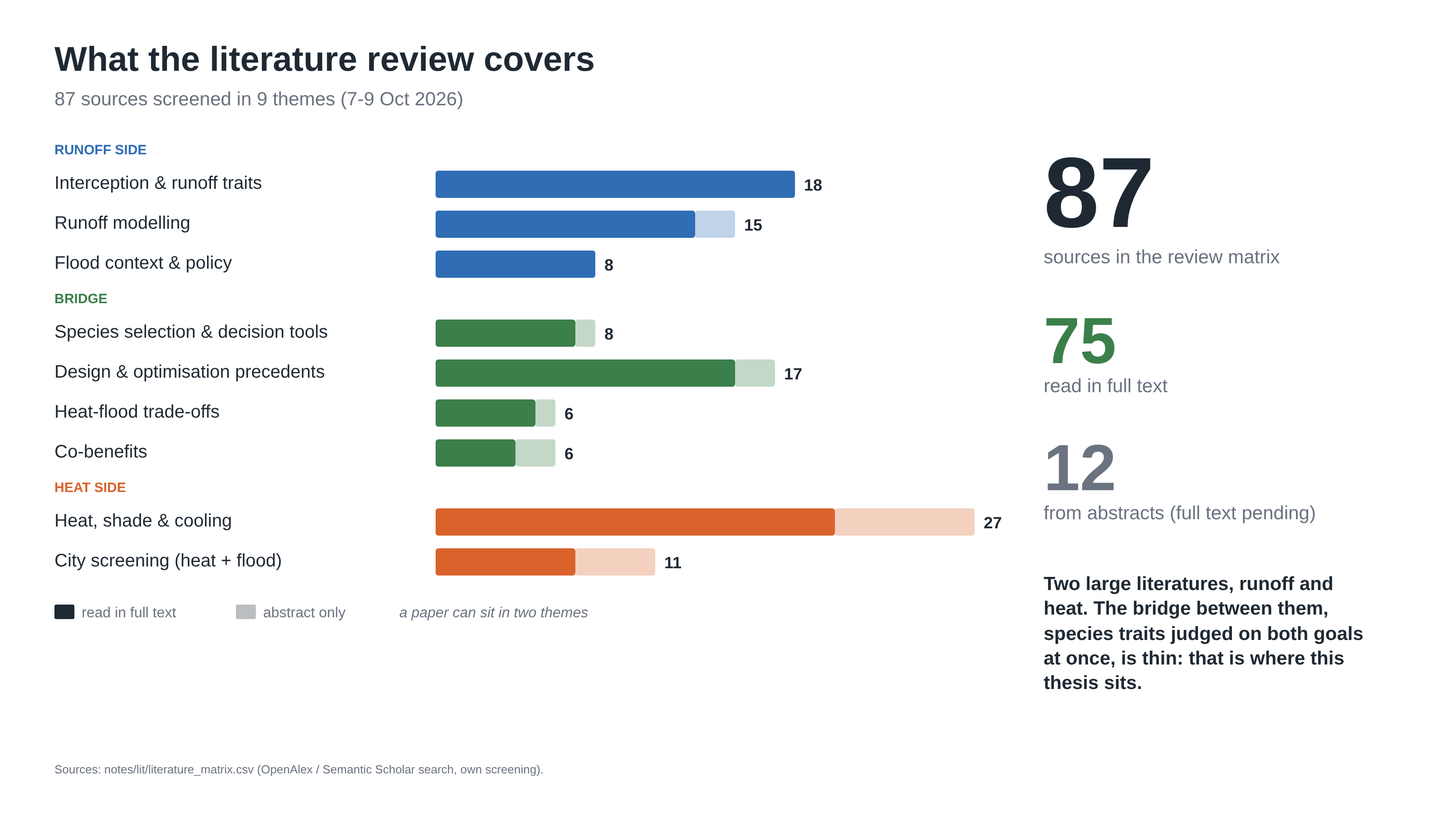
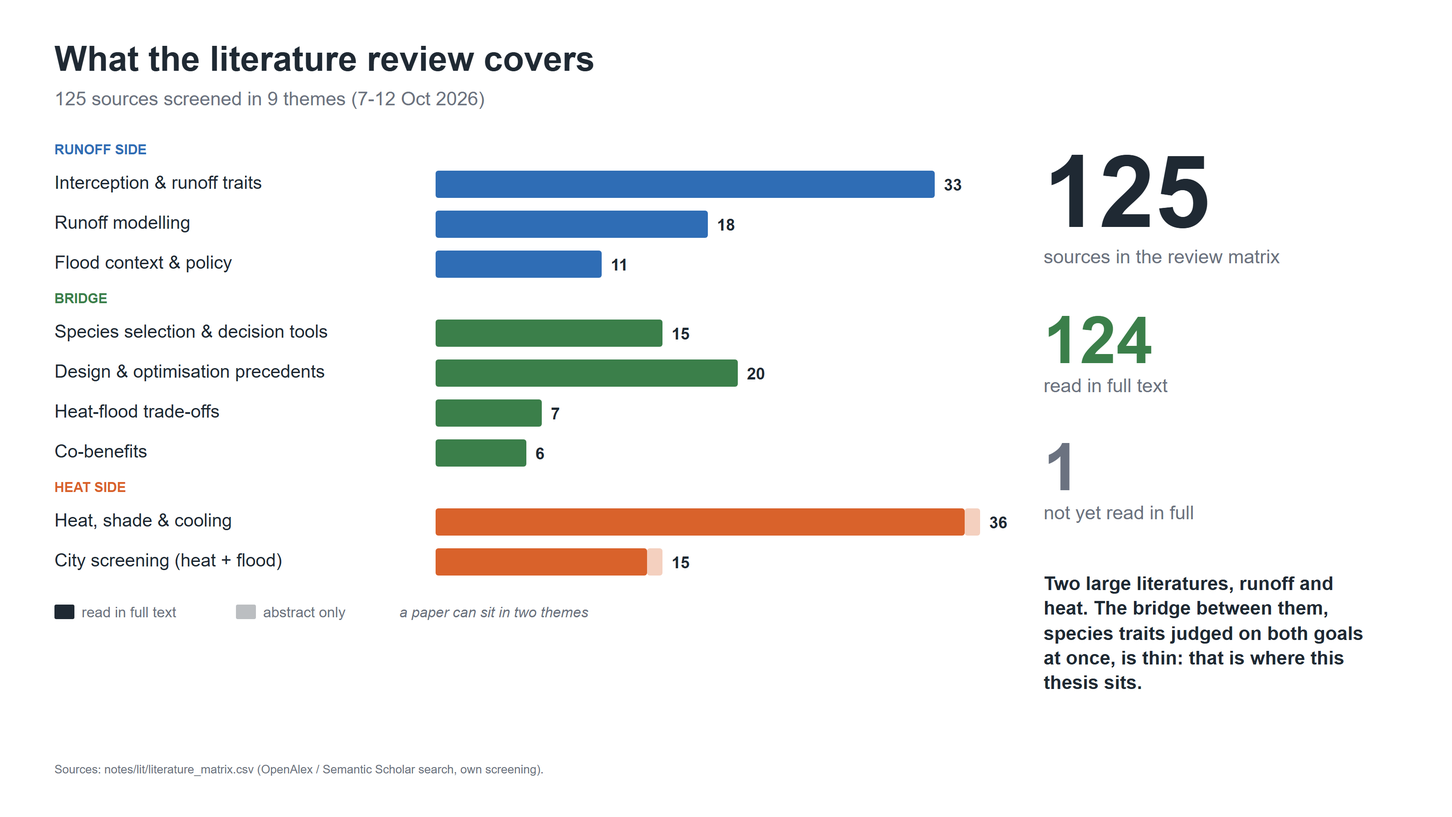
Read 30 papers in full: matrix rows 104-128 added, 82-84 and 86-87 rewritten; figure 01 skips off-topic rows (fact-checked)

diff --git a/scripts/make_infographics.py b/scripts/make_infographics.py
@@ -90,7 +90,8 @@ def to_png(svg):
 
 # ---- 1. What the review covers
 def fig_lit_map():
-    rows = list(csv.DictReader(open(ROOT / "notes/lit/literature_matrix.csv", encoding="utf-8")))
+    rows = [r for r in csv.DictReader(open(ROOT / "notes/lit/literature_matrix.csv", encoding="utf-8"))
+            if not r["relevance_to_topic"].startswith("Not used")]   # screened out as off-topic
     c = {}
     for r in rows:
         for b in r["bucket"].split("/"):
@@ -101,7 +102,8 @@ def fig_lit_map():
               ("Bridge", TREE, [("B3", "Species selection & decision tools"), ("B5", "Design & optimisation precedents"),
                                 ("B8", "Heat-flood trade-offs"), ("B6", "Co-benefits")]),
               ("Heat side", HEAT, [("B7", "Heat, shade & cooling"), ("B9", "City screening (heat + flood)")])]
-    b, y, x0, k = "", 170, 480, 22
+    b, y, x0 = "", 170, 480
+    k = min(22, 600 / max(sum(v) for v in c.values()))   # longest bar + label must stay left of the stats column (x=1150)
     for g, col, items in groups:
         b += t(60, y, g.upper(), 15, col, "bold")
         y += 12
@@ -118,10 +120,10 @@ def fig_lit_map():
     x = 1150
     b += t(x, 250, str(len(rows)), 110, INK, "bold") + t(x, 290, "sources in the review matrix", 21, MUTED)
     b += t(x, 400, str(n_full), 72, TREE, "bold") + t(x, 432, "read in full text", 21, MUTED)
-    b += t(x, 540, str(len(rows) - n_full), 72, MUTED, "bold") + t(x, 572, "from abstracts (full text pending)", 21, MUTED)
+    b += t(x, 540, str(len(rows) - n_full), 72, MUTED, "bold") + t(x, 572, "not yet read in full", 21, MUTED)
     tk, _ = para(1150, 650, "Two large literatures, runoff and heat. The bridge between them, species traits judged on "
                             "both goals at once, is thin: that is where this thesis sits.", 390, 21, weight="bold")
-    save("01_lit_map", "What the literature review covers", f"{len(rows)} sources screened in 9 themes (7-9 Oct 2026)",
+    save("01_lit_map", "What the literature review covers", f"{len(rows)} sources screened in 9 themes (7-12 Oct 2026)",
          b + tk, "notes/lit/literature_matrix.csv (OpenAlex / Semantic Scholar search, own screening).")
 
 

diff --git a/notes/lit/to_get_manually.md b/notes/lit/to_get_manually.md
@@ -2,7 +2,7 @@
 
 Paywalled, or no open-access PDF found by the search. Get them through Zotero / IAAC access, save them in `papers/`, then tell Claude, which reads them and updates `literature_matrix.csv`. T1 = screened as most relevant, T2 = second tier.
 
-**Status 9 Oct 2026:** 45 of 96 obtained and read in full, plus Santos Nouri 2018 (added by hand); 51 of the list still to get. **12 Oct:** 28 more are in `papers/` but not yet read (section 3); none left to get (Zaman dropped, section 2). Years in the entries are the search's (often online) years; the matrix uses the issue year (e.g. Zölch 2019, Cortinovis 2022, Marrazzo 2025).
+**Status 9 Oct 2026:** 45 of 96 obtained and read in full, plus Santos Nouri 2018 (added by hand); 51 of the list still to get. **12 Oct:** 28 more were obtained and read in full the same day (now in section 3, matrix rows 82-84 and 104-128); Langenheim #86 and Schrodi #87 were also read in full; none left to get (Zaman dropped, section 2). Years in the entries are the search's (often online) years; the matrix uses the issue year (e.g. Zölch 2019, Cortinovis 2022, Marrazzo 2025).
 
 ## 1. Get these first (6)
 Dowtin, Hassan, de Mello, Rahman 2019, Speak and Kaluarachchi carry claims that the slides, figures or notes took from abstracts only. **12 Oct: all read in full (Speak added and read the same day).**
@@ -18,40 +18,36 @@ Dowtin, Hassan, de Mello, Rahman 2019, Speak and Kaluarachchi carry claims that 
 
 - [-] [T1] Zaman Sumaiya (2026). The Urban Heat Island: Increasing Temperature Trends in Central European Cities (Vienna, Rome & Zagreb). **Not a paper, not obtainable (12 Oct):** the only record (University of Debrecen repository, https://hdl.handle.net/2437/408980, collection TALENTUD FOS, June 2026) holds a slide deck (`ppt-on-uhi_0.pdf`) and a participation certificate, both login-only (HTTP 401). The `urban_heat_island_central_europe.pdf` placed in `papers/` was a generated "summary report" (ReportLab, 1 page), not the source, and was moved to `papers/_to_delete/`. **Dropped by the user (12 Oct).**
 
-## 3. In `papers/`, not yet read (28, added 12 Oct)
+## 3. Obtained and read in full (90 from the list, plus 3 entries added on 11 Oct at the end)
 
-Sciuto 2024 also has an extended abstract: `Sciuto 2024 - SuDS retrofitting for hydraulic risk mitigation in Catania (ICUD extended abstract).pdf`. Eslami's file is an image-only browser print (no text layer) of the complete 3-page UDM 2025 extended abstract.
-
-- [ ] [T1] Mahmuda Sharmin (2023). Tree crown traits and planting context contribute to reducing urban heat. https://doi.org/10.1016/j.ufug.2023.127913 → `Sharmin 2023 - Tree crown traits and planting context contribute to reducing urban heat.pdf`
-- [ ] [T2] Patrícia Layne Alves (2018). Rainfall interception capacity of tree species used in urban afforestation. https://doi.org/10.1007/s11252-018-0753-y → `Alves 2018 - Rainfall interception capacity of tree species used in urban afforestation.pdf`
-- [ ] [T2] Sybil G. Gotsch (2017). Evaluating the effectiveness of urban trees to mitigate storm water runoff via transpiration and stemflow. https://doi.org/10.1007/s11252-017-0693-y → `Gotsch 2018 - Effectiveness of urban trees to mitigate storm water runoff via transpiration and stemflow.pdf`
-- [ ] [T2] Claire Farrell (2022). Can we integrate ecological approaches to improve plant selection for green infrastructure?. https://doi.org/10.1016/j.ufug.2022.127732 → `Farrell 2022 - Can we integrate ecological approaches to improve plant selection for green infrastructure.pdf`
-- [ ] [T2] Claire Farrell (2013). High water users can be drought tolerant: using physiological traits for green roof plant selection. https://doi.org/10.1007/s11104-013-1725-x → `Farrell 2013 - High water users can be drought tolerant.pdf`
-- [ ] [T2] Yan Ting (2020). Effects of the morphological characteristics of plants on rainfall interception and kinetic energy. https://doi.org/10.1016/j.jhydrol.2020.125807 → `Yan 2021 - Effects of the morphological characteristics of plants on rainfall interception.pdf`
-- [ ] [T2] Christopher J. Nytch (2018). Rainfall interception by six urban trees in San Juan, Puerto Rico. https://doi.org/10.1007/s11252-018-0768-4 → `Nytch 2019 - Rainfall interception by six urban trees in San Juan, Puerto Rico.pdf`
-- [ ] [T2] Katarina Zabret (2019). Evaluating the Influence of Rain Event Characteristics on Rainfall Interception by Urban Trees Using Multiple Correspondence Analysis. https://doi.org/10.3390/w11122659 → `Zabret 2019 - Influence of rain event characteristics on rainfall interception by urban trees.pdf`
-- [ ] [T2] Chaonan Xu (2025). Urban-Scale Quantification of Rainfall Interception Drivers in Tree Communities: Implications for Sponge City Planning. https://doi.org/10.3390/su17177793 → `Xu 2025 - Urban-scale quantification of rainfall interception drivers in tree communities.pdf`
-- [ ] [T2] Didier Técher (2023). Supporting evidences for vegetation-enhanced stormwater infiltration in bioretention systems: a comprehensive review. https://doi.org/10.1007/s11356-023-25333-w → `Techer 2023 - Vegetation-enhanced stormwater infiltration in bioretention systems.pdf`
-- [ ] [T2] Xuexiu Zhao (2026). Benefits of an urban isolated tree combined with ground covers for stormwater management through interception–infiltration–runoff processes. https://doi.org/10.1016/j.ufug.2026.129366 → `Zhao 2026 - Urban isolated tree combined with ground covers for stormwater management.pdf`
-- [ ] [T2] Stephen J. Livesley (2013). Rainfall interception and stem flow by eucalypt street trees – The impacts of canopy density and bark type. https://doi.org/10.1016/j.ufug.2013.09.001 → `Livesley 2014 - Rainfall interception and stem flow by eucalypt street trees.pdf`
-- [ ] [T2] Katarina Zabret (2018). Influence of meteorological variables on rainfall partitioning for deciduous and coniferous tree species in urban area. https://doi.org/10.1016/j.jhydrol.2018.01.025 → `Zabret 2018 - Influence of meteorological variables on rainfall partitioning in urban area.pdf`
-- [ ] [T2] Mark Bryan Alivio (2025). An evaluation of the stormwater runoff reduction of two distinct tree species to support urban greening as nature-based solutions. https://doi.org/10.1016/j.ufug.2025.128792 → `Alivio 2025 - Stormwater runoff reduction of two distinct tree species.pdf`
-- [ ] [T2] Eslami, Ali (2026). Looking under the canopy: Modelling how single trees contribute to runoff reduction in cities. https://doi.org/10.71573/zhbx9v70 (matrix #83, abstract only; runoff side, species-specific interception is its own future work) → `Eslami 2025 - Looking under the canopy.pdf`
-- [ ] [T2] Raghad A. Awad (2026). Machine Learning Surrogate Modeling in R for Rapid Screening of Green Infrastructure Hydrological Performance in Urban Stormwater Management: A Proof-of-Concept Study Using Synthetic Data. https://doi.org/10.3390/w18192413 → `Awad 2026 - Machine learning surrogate modeling in R for green infrastructure screening.pdf`
-- [ ] [T2] Fatemeh Rezaei Aderyani (2025). A surrogate machine learning modeling approach for enhancing the efficiency of urban flood modeling at metropolitan scales. https://doi.org/10.1016/j.scs.2025.106277 → `Rezaei Aderyani 2025 - Surrogate machine learning for urban flood modeling at metropolitan scales.pdf`
-- [ ] [T2] Moreen Willaredt (2026). The effects of extreme climatic events on urban trees in Mediterranean regions: A review. https://doi.org/10.1016/j.cpb.2026.100605 → `Willaredt 2026 - Effects of extreme climatic events on urban trees in Mediterranean regions.pdf`
-- [ ] [T2] Liviana Sciuto (2026). Retrofitting interventions with Sustainable urban Drainage Solutions for the hydraulic risk mitigation: the case study of Catania (Sicily, Italy). https://doi.org/10.5281/zenodo.22913242 → `Sciuto 2024 - SuDS retrofitting for hydraulic risk mitigation in Catania (ICUD poster).pdf`
-- [ ] [T2] Francesco Di Paola (2026). The May 2023 flood in Emilia-Romagna and 50-year trends in extreme precipitation based on ERA5-Land. https://doi.org/10.1016/j.ejrh.2025.103070 → `Di Paola 2026 - The May 2023 flood in Emilia-Romagna and 50-year trends in extreme precipitation.pdf`
-- [ ] [T2] Yifei Zhu (2023). Spatial layout optimization of green infrastructure based on life-cycle multi-objective optimization algorithm and SWMM model. https://doi.org/10.1016/j.resconrec.2023.106906 → `Zhu 2023 - Spatial layout optimization of green infrastructure with life-cycle MOO and SWMM.pdf`
-- [ ] [T2] Chen Liang (2021). A land-use decision approach integrating thermal regulation, stormwater management, and economic benefits based on urbanization stage identification. https://doi.org/10.1016/j.scitotenv.2021.146415 (matrix #84, title only, no abstract found; could be heat + runoff prior art, **carries the novelty claim** until read) → `Liang 2021 - Land-use decision approach integrating thermal regulation and stormwater management.pdf`
-- [ ] [T2] Yue Xing (2026). A Framework for Designing Green Infrastructure to Maximize Co-Benefits in High-Density Industrial Districts. https://doi.org/10.3390/su18042142 (matrix #82, abstract only; heat + runoff by GI scenarios; open MDPI PDF, blocked in cloud) → `Xing 2026 - Framework for designing green infrastructure to maximize co-benefits.pdf`
-- [ ] [T2] Virginia R. Stovin (2008). STREET TREES AND STORMWATER MANAGEMENT. https://doi.org/10.1080/03071375.2008.9747509 → `Stovin 2008 - Street trees and stormwater management.pdf`
-- [ ] [T2] Julie Schooling (2015). The influence of rainfall depth class and deciduous tree traits on stemflow production in an urban park. https://doi.org/10.1007/s11252-015-0441-0 → `Schooling 2015 - Rainfall depth class and deciduous tree traits on stemflow production.pdf`
-- [ ] [T2] Alireza Nooraei Beidokhti (2021). The effects of precipitation, tree phenology, leaf area index, and bark characteristics on throughfall rates by urban trees: A meta-data analysis. https://doi.org/10.1016/j.ufug.2021.127052 → `Nooraei Beidokhti 2021 - Precipitation, phenology, LAI and bark effects on throughfall by urban trees.pdf`
-- [ ] [T2] Yeganeh Asadian (2009). A New Approach in Measuring Rainfall Interception by Urban Trees in Coastal British Columbia. https://doi.org/10.2166/wqrj.2009.003 → `Asadian 2009 - A new approach in measuring rainfall interception by urban trees in coastal British Columbia.pdf`
-- [ ] [T2] Janez Kermavnar (2017). Canopy precipitation interception in urban forests in relation to stand structure. https://doi.org/10.1007/s11252-017-0689-7 → `Kermavnar 2017 - Canopy precipitation interception in urban forests in relation to stand structure.pdf`
-
-## 4. Obtained and read in full (62)
+- [x] [T1] Mahmuda Sharmin (2023). Tree crown traits and planting context contribute to reducing urban heat. https://doi.org/10.1016/j.ufug.2023.127913 (matrix #104, full text (12 Oct))
+- [x] [T2] Patrícia Layne Alves (2018). Rainfall interception capacity of tree species used in urban afforestation. https://doi.org/10.1007/s11252-018-0753-y (matrix #105, full text (12 Oct))
+- [x] [T2] Sybil G. Gotsch (2017). Evaluating the effectiveness of urban trees to mitigate storm water runoff via transpiration and stemflow. https://doi.org/10.1007/s11252-017-0693-y (matrix #106, full text (12 Oct))
+- [x] [T2] Claire Farrell (2022). Can we integrate ecological approaches to improve plant selection for green infrastructure?. https://doi.org/10.1016/j.ufug.2022.127732 (matrix #107, full text (12 Oct))
+- [x] [T2] Claire Farrell (2013). High water users can be drought tolerant: using physiological traits for green roof plant selection. https://doi.org/10.1007/s11104-013-1725-x (matrix #108, full text (12 Oct))
+- [x] [T2] Yan Ting (2020). Effects of the morphological characteristics of plants on rainfall interception and kinetic energy. https://doi.org/10.1016/j.jhydrol.2020.125807 (matrix #109, full text (12 Oct))
+- [x] [T2] Christopher J. Nytch (2018). Rainfall interception by six urban trees in San Juan, Puerto Rico. https://doi.org/10.1007/s11252-018-0768-4 (matrix #110, full text (12 Oct))
+- [x] [T2] Katarina Zabret (2019). Evaluating the Influence of Rain Event Characteristics on Rainfall Interception by Urban Trees Using Multiple Correspondence Analysis. https://doi.org/10.3390/w11122659 (matrix #111, full text (12 Oct))
+- [x] [T2] Chaonan Xu (2025). Urban-Scale Quantification of Rainfall Interception Drivers in Tree Communities: Implications for Sponge City Planning. https://doi.org/10.3390/su17177793 (matrix #112, full text (12 Oct))
+- [x] [T2] Didier Técher (2023). Supporting evidences for vegetation-enhanced stormwater infiltration in bioretention systems: a comprehensive review. https://doi.org/10.1007/s11356-023-25333-w (matrix #113, full text (12 Oct))
+- [x] [T2] Xuexiu Zhao (2026). Benefits of an urban isolated tree combined with ground covers for stormwater management through interception–infiltration–runoff processes. https://doi.org/10.1016/j.ufug.2026.129366 (matrix #114, full text (12 Oct))
+- [x] [T2] Stephen J. Livesley (2013). Rainfall interception and stem flow by eucalypt street trees – The impacts of canopy density and bark type. https://doi.org/10.1016/j.ufug.2013.09.001 (matrix #115, full text (12 Oct))
+- [x] [T2] Katarina Zabret (2018). Influence of meteorological variables on rainfall partitioning for deciduous and coniferous tree species in urban area. https://doi.org/10.1016/j.jhydrol.2018.01.025 (matrix #116, full text (12 Oct))
+- [x] [T2] Mark Bryan Alivio (2025). An evaluation of the stormwater runoff reduction of two distinct tree species to support urban greening as nature-based solutions. https://doi.org/10.1016/j.ufug.2025.128792 (matrix #117, full text (12 Oct))
+- [x] [T2] Eslami, Ali (2026). Looking under the canopy: Modelling how single trees contribute to runoff reduction in cities. https://doi.org/10.71573/zhbx9v70 (matrix #83, full text (12 Oct))
+- [x] [T2] Raghad A. Awad (2026). Machine Learning Surrogate Modeling in R for Rapid Screening of Green Infrastructure Hydrological Performance in Urban Stormwater Management: A Proof-of-Concept Study Using Synthetic Data. https://doi.org/10.3390/w18192413 (matrix #118, full text (12 Oct))
+- [x] [T2] Fatemeh Rezaei Aderyani (2025). A surrogate machine learning modeling approach for enhancing the efficiency of urban flood modeling at metropolitan scales. https://doi.org/10.1016/j.scs.2025.106277 (matrix #119, full text (12 Oct))
+- [x] [T2] Moreen Willaredt (2026). The effects of extreme climatic events on urban trees in Mediterranean regions: A review. https://doi.org/10.1016/j.cpb.2026.100605 (matrix #120, full text (12 Oct))
+- [x] [T2] Liviana Sciuto (2026). Retrofitting interventions with Sustainable urban Drainage Solutions for the hydraulic risk mitigation: the case study of Catania (Sicily, Italy). https://doi.org/10.5281/zenodo.22913242 (matrix #121, full text (12 Oct))
+- [x] [T2] Francesco Di Paola (2026). The May 2023 flood in Emilia-Romagna and 50-year trends in extreme precipitation based on ERA5-Land. https://doi.org/10.1016/j.ejrh.2025.103070 (matrix #122, full text (12 Oct))
+- [x] [T2] Yifei Zhu (2023). Spatial layout optimization of green infrastructure based on life-cycle multi-objective optimization algorithm and SWMM model. https://doi.org/10.1016/j.resconrec.2023.106906 (matrix #123, full text (12 Oct))
+- [x] [T2] Chen Liang (2021). A land-use decision approach integrating thermal regulation, stormwater management, and economic benefits based on urbanization stage identification. https://doi.org/10.1016/j.scitotenv.2021.146415 (matrix #84, full text (12 Oct))
+- [x] [T2] Yue Xing (2026). A Framework for Designing Green Infrastructure to Maximize Co-Benefits in High-Density Industrial Districts. https://doi.org/10.3390/su18042142 (matrix #82, full text (12 Oct))
+- [x] [T2] Virginia R. Stovin (2008). STREET TREES AND STORMWATER MANAGEMENT. https://doi.org/10.1080/03071375.2008.9747509 (matrix #124, full text (12 Oct))
+- [x] [T2] Julie Schooling (2015). The influence of rainfall depth class and deciduous tree traits on stemflow production in an urban park. https://doi.org/10.1007/s11252-015-0441-0 (matrix #125, full text (12 Oct))
+- [x] [T2] Alireza Nooraei Beidokhti (2021). The effects of precipitation, tree phenology, leaf area index, and bark characteristics on throughfall rates by urban trees: A meta-data analysis. https://doi.org/10.1016/j.ufug.2021.127052 (matrix #126, full text (12 Oct))
+- [x] [T2] Yeganeh Asadian (2009). A New Approach in Measuring Rainfall Interception by Urban Trees in Coastal British Columbia. https://doi.org/10.2166/wqrj.2009.003 (matrix #127, full text (12 Oct))
+- [x] [T2] Janez Kermavnar (2017). Canopy precipitation interception in urban forests in relation to stand structure. https://doi.org/10.1007/s11252-017-0689-7 (matrix #128, full text (12 Oct))
 
 - [x] [T1] Tan Zi (2025). From site-scale to landscape-scale: stormwater benefits of urban trees with SWMM-Canopy. https://doi.org/10.1080/1573062x.2025.2598435 (matrix #14, full text (12 Oct))
 - [x] [T1] Charity Nyelele (2021). A multi-objective decision support framework to prioritize tree planting locations in urban areas. https://doi.org/10.1016/j.landurbplan.2021.104172 (matrix #25, full text (12 Oct))
@@ -118,5 +114,5 @@ Sciuto 2024 also has an extended abstract: `Sciuto 2024 - SuDS retrofitting for 
 
 Duplicate PDFs in `papers/`: the three exact copies (`Increase and Spatial Variation in Soil Infiltration.pdf`, `Variation in leaf area density drives the rainfall storage capacity of individual urban.pdf`, `Surface Water Storage Capacity of Twenty Tree Species in davis california.pdf`) were deleted on 12 Oct. Third batch (12 Oct evening): 9 redundant files moved to `papers/_to_delete/` for the user to delete. These were 3 byte-identical copies (Sciuto poster, Dong, Rombeek) and 2 same-DOI copies with identical text (Zhao 2026, Campanale). Also moved: the in-press Morabito 2016 copy, replaced by the final version under the same file name; two extra Livesley 2016 copies, one the publisher PDF without the Wiley download stamps (same text) and one a browser print of the web page; and the Zaman stub. Livesley 2016 is resolved: the copy the matrix names is kept.
 - [ ] [new, 11 Oct] Dong, Ye, Su, Haase & Lausch (2026). Optimizing urban tree species composition to maximize nature-based solutions. npj Urban Sustain. 6:47. https://doi.org/10.1038/s42949-026-00361-w (matrix #85, read in full from the open PDF at https://edoc.hu-berlin.de/18452/37591; **PDF now in papers/ (12 Oct); the supplementary tables are not in it** (online-only; Supplementary Table 3 is the 30-species tree list); closest species-level heat-proxy + runoff precedent)
-- [ ] [new, 11 Oct] Langenheim & White (2022). Green infrastructure and urban-renewal simulation for street tree design decision-making. https://doi.org/10.3390/ijerph19138220 (matrix #86, partial text read; full PDF in papers/ since 12 Oct; optional)
-- [ ] [new, 11 Oct] Schrodi et al. (2023). Climate-sensitive urban planning through optimization of tree placements. https://arxiv.org/abs/2310.05691 (matrix #87, abstract only; PDF in papers/ since 12 Oct; heat only, optional)
+- [x] [new, 11 Oct] Langenheim & White (2022). Green infrastructure and urban-renewal simulation for street tree design decision-making. https://doi.org/10.3390/ijerph19138220 (matrix #86, full text (12 Oct))
+- [x] [new, 11 Oct] Schrodi et al. (2023). Climate-sensitive urban planning through optimization of tree placements. https://arxiv.org/abs/2310.05691 (matrix #87, full text (12 Oct); heat only)

diff --git a/notes/decisions/contribution_statement.md b/notes/decisions/contribution_statement.md
@@ -13,9 +13,14 @@ Matrix ids 82-87 were assigned on this branch. Other open PRs may use 82+ (PR #2
 - **Holds (full text):** Mannucci #51, Shaamala #52, Peng #53, Wu #56, Hao #62, Elkhateeb #63, Oneto #64, Tan & Liu #80 (the eight papers this issue targeted), plus Nicol #28, Pacetti #18, Cortinovis #69. None optimises species and positions against pedestrian UTCI/MRT and runoff together. The nearest heat optimiser, Tan & Liu 2026 (#80), has no runoff; Mannucci (#51) has both but no species and no optimisation.
 - **Needs narrower wording (new): Dong et al. 2026, npj Urban Sustain. 6:47, doi 10.1038/s42949-026-00361-w (#85, full text from the open PDF).** It optimises species mixes for stormwater and microclimate (plus air quality and carbon) with NSGA-III. The differences from our proposal are real but specific. Heat is "building energy saving (a proxy for microclimate regulation)", not UTCI/MRT. Runoff is i-Tree Eco avoided runoff. The decision variable is species proportions per 0.25 km2 cell, with no tree positions. Study area: Philadelphia. So the safe claim is: *"no method yet chooses street-tree species and positions against pedestrian-level UTCI and event runoff together"*. Do not say "species for heat and runoff" without the qualifiers "pedestrian UTCI" and "positions".
 - **Holds (full text, 12 Oct): Nyelele & Kroll 2021 #25.** Linear programming over 1,132 Bronx census block groups; the decision variable is new canopy area per block group, with all species aggregated (species are named only as a possible extension); heat is an i-Tree Cool heat index (K), runoff an i-Tree Hydro avoided-runoff dollar value. No species choice, no tree positions, no UTCI or MRT.
-- **Read at abstract level only (could still flip, see fetch list):** Xing 2026 #82 (PET + runoff + CO2 by GI scenarios (abs)); Eslami 2026 #83 (runoff only (abs)); Liang 2021 #84 (**title only; unverified 🟡**).
+- **Holds (full text, 12 Oct): Liang 2021 #84, Xing 2026 #82, Eslami 2025 #83, Schrodi 2023 #87, Langenheim & White 2022 #86.**
+  - Liang optimises heat (Landsat LST) and runoff (SCS-CN) jointly with NSGA-II, but the decision variables are land-cover area shares per 1 km cell in Xiamen: no trees, species or positions.
+  - Xing assesses PET, CO2 and a runoff-control design rate for 56 GI-type scenarios in ENVI-met (Nanjing): no species, no optimiser, runoff not simulated.
+  - Eslami is runoff only: per-tree LAI-based interception in Copenhagen.
+  - Schrodi is heat only: Tmrt placement optimiser with uniform trees in Freiburg.
+  - Langenheim crosses flood and winter sun only as a qualitative species-type matrix.
 
-**`todo_manual.md` "The gap holds" (lines 26 and 28) is confirmed in substance and should be qualified:** it was written before Dong 2026, and Liang, Xing and Eslami are still abstract-level or title-only (Nyelele was read in full on 12 Oct and does not change the verdict). Line 29 (Tan & Liu: "closest precedent, but no runoff: the gap holds") is confirmed (full text).
+**`todo_manual.md` "The gap holds" (lines 26 and 28) is confirmed and should be qualified only for Dong 2026.** Liang, Xing, Eslami and Nyelele were read in full on 12 Oct, and none of them changes the verdict. Line 29 (Tan & Liu: "closest precedent, but no runoff: the gap holds") is confirmed (full text).
 
 **Gap in the text, not edited:** the §6.1 table in `topic_decision.md` (line 82, "Is it already done?") already cites #51-53, #62-64, #69 and #80 as read, but Dong 2026 is missing.
 
@@ -27,7 +32,7 @@ Matrix ids 82-87 were assigned on this branch. Other open PRs may use 82+ (PR #2
 
 **A. Method contribution.** A reproducible computational workflow that selects replacement street-tree species *and* positions in a Mediterranean district against two objectives, pedestrian UTCI and event runoff, using species-resolved crowns and leaf area (from LiDAR and a trait table) and a seasonal (leaf-on) interception term.
 - Basis: the closest optimisers are heat-only (Shaamala #52, Peng #53, Tan & Liu #80, Hao #62), the heat + runoff workflow does not optimise (Mannucci #51), and the species-level heat + runoff optimiser works at district-cell scale with an energy proxy (Dong #85).
-- Reusable pieces that are already published: LAI-based canopy transmittance for Ladybug (Peng #53); NSGA-II with a surrogate for speed (Tan & Liu #80); interception with time-varying LAI (Eslami #83, abs).
+- Reusable pieces that are already published: LAI-based canopy transmittance for Ladybug (Peng #53); NSGA-II with a surrogate for speed (Tan & Liu #80); per-tree LAI-based interception for LiDAR trees (Eslami #83; time-varying LAI stated in the abstract only); a heat-only placement optimiser with a Tmrt surrogate (Schrodi #87, full text).
 
 **B. Knowledge contribution.** A quantified comparison, for the named replacement palette in Porta, of cooling against rain interception: do the species and layouts that minimise UTCI also minimise runoff, and how large is the trade-off compared with like-for-like replacement and single-objective layouts?
 - Hooks in the literature: LAI scaling moves summer runoff and surface temperature together (Wu #56: LAI x1.4 gives runoff -10.7% and mean LST -2.5 C; LAI x0.8 gives runoff +6% and LST +1.5 C). A seasonal LAI trade-off exists for comfort (Peng #53). Dong #85 reports, for optimised vs random species composition, a gain of about 18-20% for stormwater (0.71 vs 0.60 million m3/yr in matrix row #85) against +77.1% for its energy proxy, in i-Tree Eco terms; this may suggest the trade-off may be asymmetric, but it is a different metric and a different city.
@@ -42,28 +47,30 @@ Relevant hit = a tree study addressing heat *and* runoff. Search summaries are w
 | # | Query (exact) | Relevant hits | Notes |
 |---|---|---|---|
 | 1 | street tree species selection and placement optimisation UTCI and stormwater runoff multi-objective | 2 | Dong 2026 (#85); Langenheim & White 2022 (#86, qualitative) |
-| 2 | tree planting layout optimization mean radiant temperature and rainfall interception runoff NSGA-II urban trees | 0 | heat-only: Schrodi 2023 (#87, abs); a 2026 Swin-Unet + genetic-algorithm Tmrt preprint, heat only (🟡 snippet only, not added) |
+| 2 | tree planting layout optimization mean radiant temperature and rainfall interception runoff NSGA-II urban trees | 0 | heat-only: Schrodi 2023 (#87, abs at the time; full text 12 Oct); a 2026 Swin-Unet + genetic-algorithm Tmrt preprint, heat only (🟡 snippet only, not added) |
 | 3 | Grasshopper Ladybug SWMM street trees species pluvial flooding and thermal comfort parametric workflow 2024 2025 | 0 new | Morganti, Mannucci & Fiocchi 2024 (pluvial Grasshopper workflow; abstract shows no species or thermal) 🟡 not added; Milosevic 2017 pre-2022 |
 | 4 | trait-based tree species selection urban cooling and stormwater interception trade-off Mediterranean street trees | 0 | Canberra shading-tree trade-off is cooling only (surface vs thermal), no stormwater |
 | 5 | street tree species ranking pedestrian thermal comfort UTCI and rainfall interception runoff reduction combined assessment 2023 2024 2025 urban trees both heat and stormwater | 0 | Lisbon UTCI paper = Silva 2025 (#47); interception papers separate |
 | 6 | ENVI-met and SWMM coupled tree species heat mitigation stormwater green infrastructure street trees scenario 2024 | 0 | no ENVI-met + SWMM species study found |
 | s1 | Nyelele 2021 "multi-objective decision support framework ..." | n/a | gave Bronx, linear programming, cover/runoff/PM2.5/heat/cost/equity (abs) |
-| s2, s3 | Liang 2021 title (exact); same topic keywords | n/a | paper not found: no abstract |
+| s2, s3 | Liang 2021 title (exact); same topic keywords | n/a | paper not found: no abstract (PDF obtained and read in full 12 Oct, #84) |
 
 Result: 2 real new hits relevant to heat + runoff (Dong 2026 full text, Langenheim 2022 partial text), 1 heat-only placement optimiser (Schrodi 2023, abs). Verified by fetching: Dong (repository page and open PDF), Langenheim (PMC), Schrodi (arXiv abstract page).
 
 ## 4. Fetch list for the user
 
-1. **Liang 2021** (doi 10.1016/j.scitotenv.2021.146415): title only, no abstract found anywhere. Carries the novelty claim until read: if it is tree-level heat + runoff optimisation, the verdict changes.
+1. **Liang 2021** (doi 10.1016/j.scitotenv.2021.146415): **done 12 Oct (full text):** land-use-share optimisation per 1 km cell, not trees; the verdict holds.
 2. **Nyelele 2021** (doi 10.1016/j.landurbplan.2021.104172, #25): **done 12 Oct (full text):** species are not an optimisation variable; heat metric is an i-Tree Cool heat index (K).
-3. **Dong 2026** (doi 10.1038/s42949-026-00361-w): open PDF at https://edoc.hu-berlin.de/18452/37591. Save it to `papers/`; I read it in full, but the Supplementary tables of species values are not seen.
-4. **Xing 2026** (doi 10.3390/su18042142, open MDPI PDF, blocked in the cloud) and **Eslami 2026** (doi 10.71573/zhbx9v70): abstract-level; unlikely to flip the verdict (GI scenarios; runoff only).
+3. **Dong 2026** (doi 10.1038/s42949-026-00361-w): open PDF at https://edoc.hu-berlin.de/18452/37591. Saved to `papers/` on 12 Oct; the online-only Supplementary tables of species values are still not seen.
+4. **Xing 2026** (doi 10.3390/su18042142) and **Eslami 2025** (doi 10.71573/zhbx9v70, UDM 2025 extended abstract): **done 12 Oct (full text):** GI-type scenarios; runoff only. The verdict holds.
 5. Tan & Liu 2026 is full text (#80) and already ticked in `todo_manual.md` (line 29).
 6. `to_get_manually.md` was updated for items 1-4 and has 3 new entries (Dong, Langenheim, Schrodi). Its older Mannucci, Shaamala, Peng and Wu lines (already read in full) were not touched.
 
 ## 5. Caveats
 
-- Coding in `prior_art_matrix.csv` comes from matrix rows, stored abstracts and search summaries, not from fresh full-text reads, except for Dong (#85) and Langenheim (#86, first ~100k of 147k characters).
+- Coding in `prior_art_matrix.csv` comes from matrix rows, stored abstracts and search summaries, not from fresh full-text reads, except for Dong (#85), Nyelele (#25) and, since 12 Oct, Xing (#82), Eslami (#83), Liang (#84), Langenheim (#86) and Schrodi (#87).
 - Rows #28, #18, #69 (and the fig 04 codings) were added so the CSV covers the figure's precedents; Pacetti and Cortinovis are coded from their matrix rows.
 - Nyelele's matrix row #25 and prior-art row were updated from the full text on 12 Oct.
-- Fact-check could not re-open the Dong PDF (login/403), so Dong's NSGA-III, species count and 0.71 vs 0.60 figures rest on matrix row #85; the repository abstract confirms only Philadelphia, 0.25 km2 cells, ~20% stormwater and up to 80% microclimate.
+- Dong figures checked on 12 Oct against the PDF now in `papers/`:
+  - NSGA-III with a population of 400 and 500 generations, and the 30 most common Philadelphia species.
+  - At 15% added canopy, runoff reduction is 0.71 vs 0.60 million m3/yr (+19%) and energy savings are US$70.72 vs 39.94 million (+77.1%), optimal vs random composition.

diff --git a/notes/handoff_papers.md b/notes/handoff_papers.md
@@ -28,3 +28,7 @@ The user added new PDFs to `papers/` on the Omen. Do, in this order:
   - **Zaman 2026 is not a paper:** the Debrecen repository record has only a login-only slide deck and certificate.
   - **Added later the same evening:** Asadian 2009 and Kermavnar 2017 (renamed, both added to Zotero). Zaman dropped by the user.
   - **Still to get:** only Dong's online supplementary tables and Speak 2020's supplementary per-tree table.
+- **Third batch read in full (12 Oct, late):**
+  - **Matrix:** all 28 papers plus Langenheim and Schrodi. 25 new rows (104-128) and 5 rewritten (82 Xing, 83 Eslami, 84 Liang, 86 Langenheim, 87 Schrodi), 128 rows in total. Only #49 (Petralli, Florence) is still not full text, apart from the off-topic rows 91-93.
+  - **Novelty checks:** Liang 2021 (#84) optimises land-cover shares per 1 km cell, not trees, so the gap holds. `contribution_statement.md` and `prior_art_matrix.csv` (rows 82-87) were updated from the full texts. Dong 2026 figures are now checked against the local PDF.
+  - **Figure 01:** `fig_lit_map()` skips rows whose `relevance_to_topic` starts with "Not used". The bar scale now fits the stats column. Figure 01 was regenerated: 125 sources, 124 full text.
